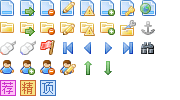
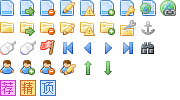
增加“线上版本预览”图标的图片和样式

diff --git a/assets/admin/main.css b/assets/admin/main.css
@@ -347,6 +347,7 @@ a:hover {
 .icon-delete,
 .icon-move,
 .icon-preview,
+.icon-preview-ol,
 .icon-undo-pub,
 .icon-undo-rej,
 .icon-home,
@@ -394,6 +395,9 @@ a:hover {
 }
 .icon-preview {
 	background-position: -140px 0;
+}
+.icon-preview-ol {
+	background-position: -160px 0;
 }
 .icon-flag-1 {
 	background-position: -20px -80px;
